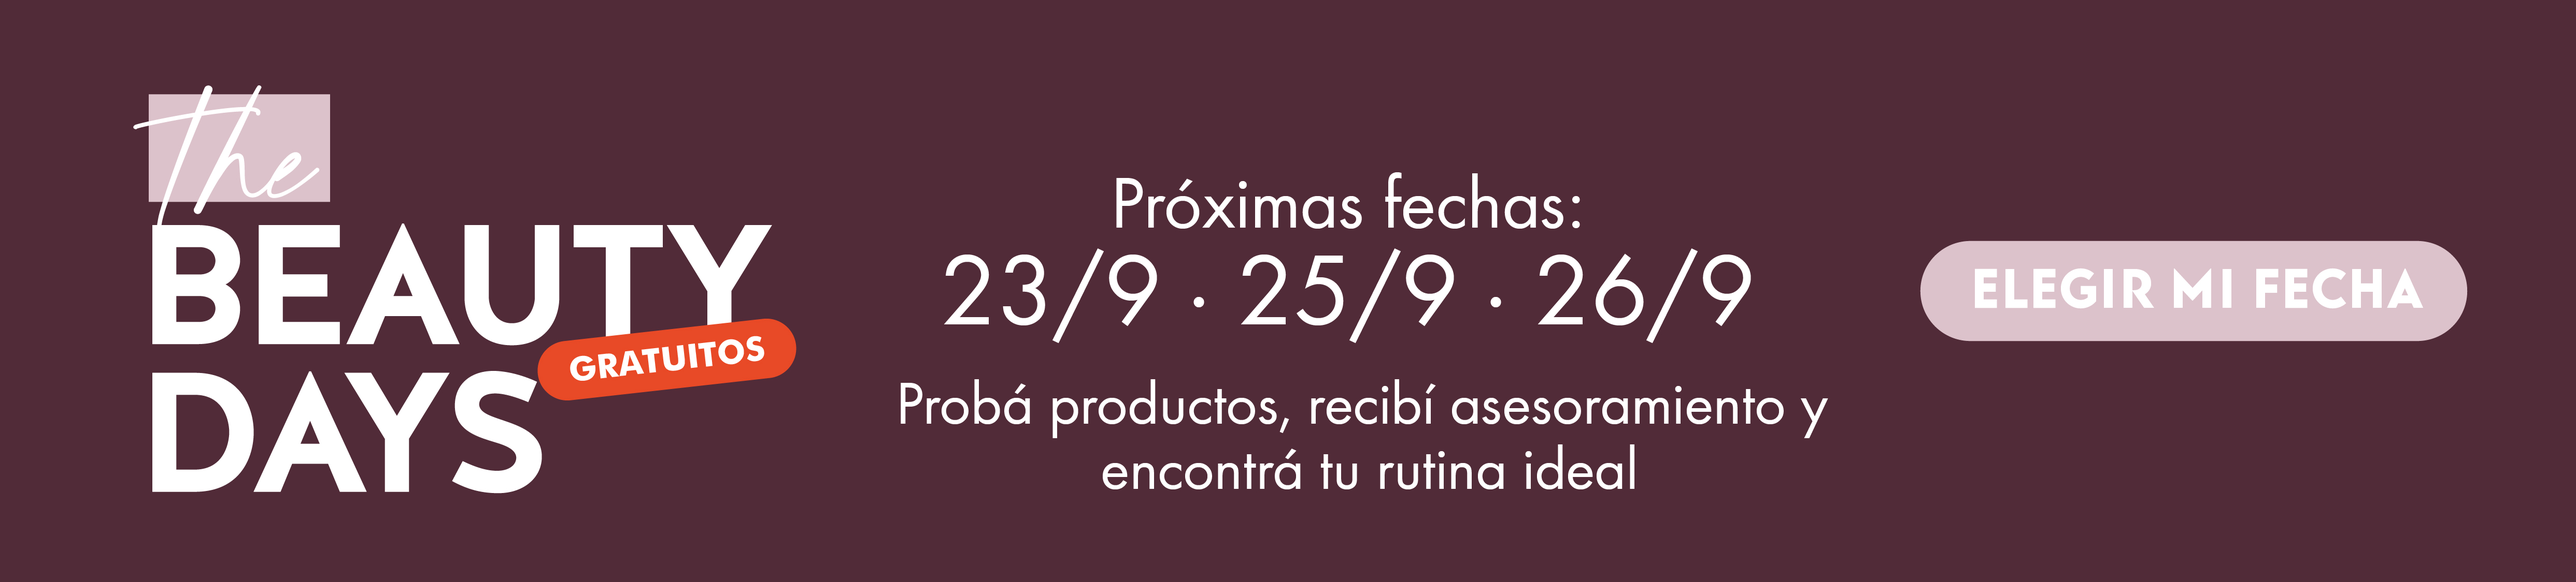
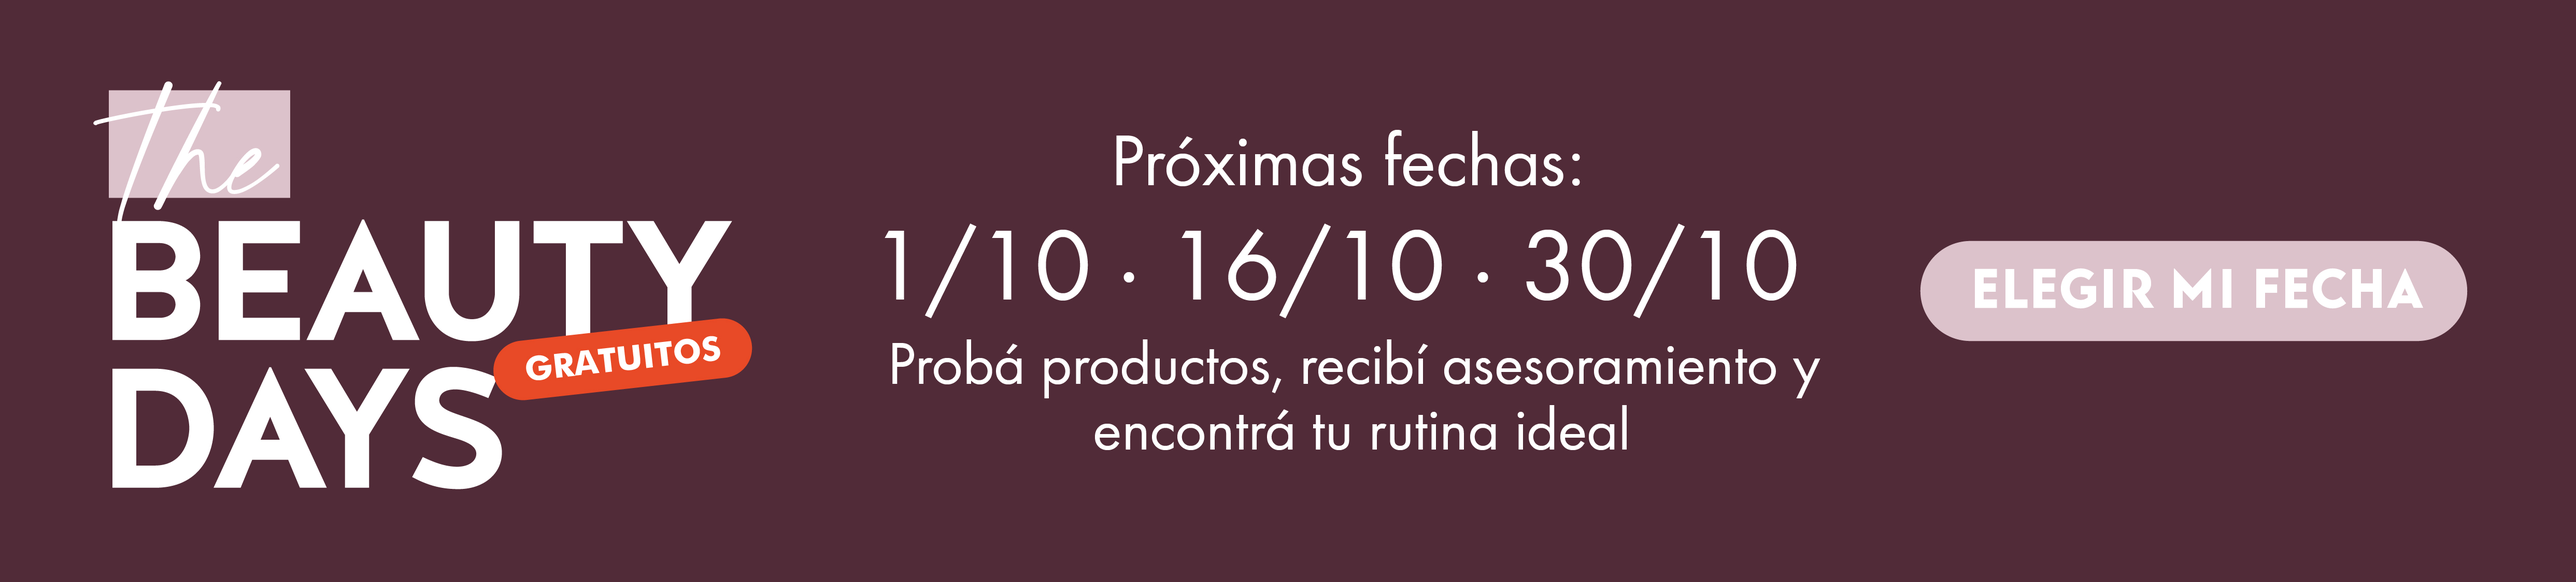
Adjust order confirmation flow
Adds a new `confirmar` order choice to the customer portal and step-3 flow. This keeps order draft creation for simple confirmation without redirecting to WhatsApp, while preserving the existing `contactenme` flow for the contact CTA. Also updates the related banner image assets.

Changed region(s): [[0.0312, 0.1244, 0.3118, 0.8711], [0.343, 0.2178, 0.7172, 0.56], [0.343, 0.5911, 0.7172, 0.84]]

diff --git a/src/components/organisms/portal-cliente/portal-cliente.tsx b/src/components/organisms/portal-cliente/portal-cliente.tsx
@@ -56,7 +56,7 @@ type ParentOrderDraftResponse = {
   created?: boolean;
 };
 
-type ConfirmOrderChoice = "pagar_ahora" | "contactenme";
+type ConfirmOrderChoice = "pagar_ahora" | "contactenme" | "confirmar";
 
 type PaymentStatus = "idle" | "redirecting" | "processing" | "rejected" | "pending";
 
@@ -1084,7 +1084,7 @@ export default function PortalCliente({
         body: JSON.stringify({ tipo: "DECISION_GUARDADA" }),
       }).then(toJson<Record<string, unknown>>);
 
-      if (choice === "contactenme") {
+      if (choice === "contactenme" || choice === "confirmar") {
         const draft = await fetch(
           `/api/magic/portal-clientes/${token}/parent-orders/draft`,
           { method: "POST" },
@@ -1098,7 +1098,13 @@ export default function PortalCliente({
             window.localStorage.setItem(orderCodeStorageKey, draft.code);
           }
         }
-        redirectToWhatsApp();
+        // "contactenme" es el botón "Hablar con CORA" (crea el pedido y
+        // además abre WhatsApp); "confirmar" es el botón simple de
+        // confirmación (con el pago por Mercado Pago desactivado) — solo
+        // crea el pedido, sin redirigir a WhatsApp.
+        if (choice === "contactenme") {
+          redirectToWhatsApp();
+        }
         return;
       }
 

diff --git a/src/components/molecules/pedidos-steps/pedidos-step-3/pedidos-step-3.tsx b/src/components/molecules/pedidos-steps/pedidos-step-3/pedidos-step-3.tsx
@@ -29,7 +29,7 @@ import {
 
 type PaymentStatus = "idle" | "redirecting" | "processing" | "rejected" | "pending";
 
-type ConfirmOrderChoice = "pagar_ahora" | "contactenme";
+type ConfirmOrderChoice = "pagar_ahora" | "contactenme" | "confirmar";
 
 type PedidosStep3Props = {
   productos: ConfirmProductItem[];
@@ -355,7 +355,7 @@ const PedidosStep3 = ({
               <>
                 <PortalButton
                   variant="primary"
-                  onClick={() => onConfirm("contactenme")}
+                  onClick={() => onConfirm("confirmar")}
                   disabled={isSubmitting || !entrega}
                 >
                   {isSubmitting ? "Confirmando pedido..." : "Confirmar selección"}
